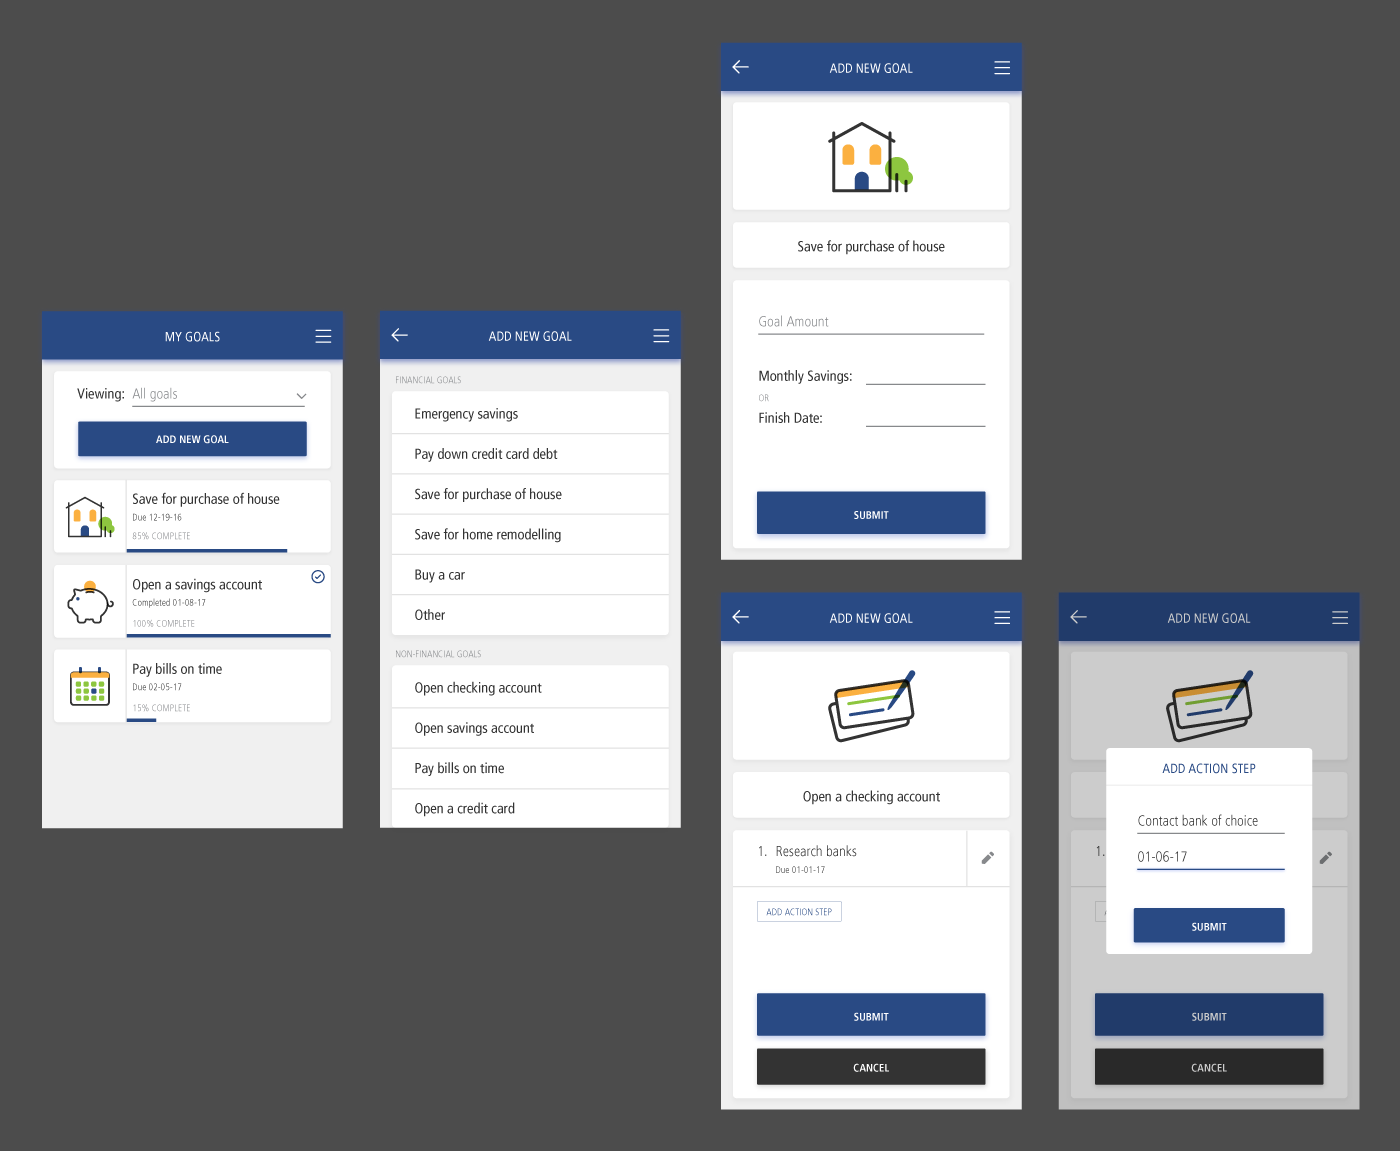
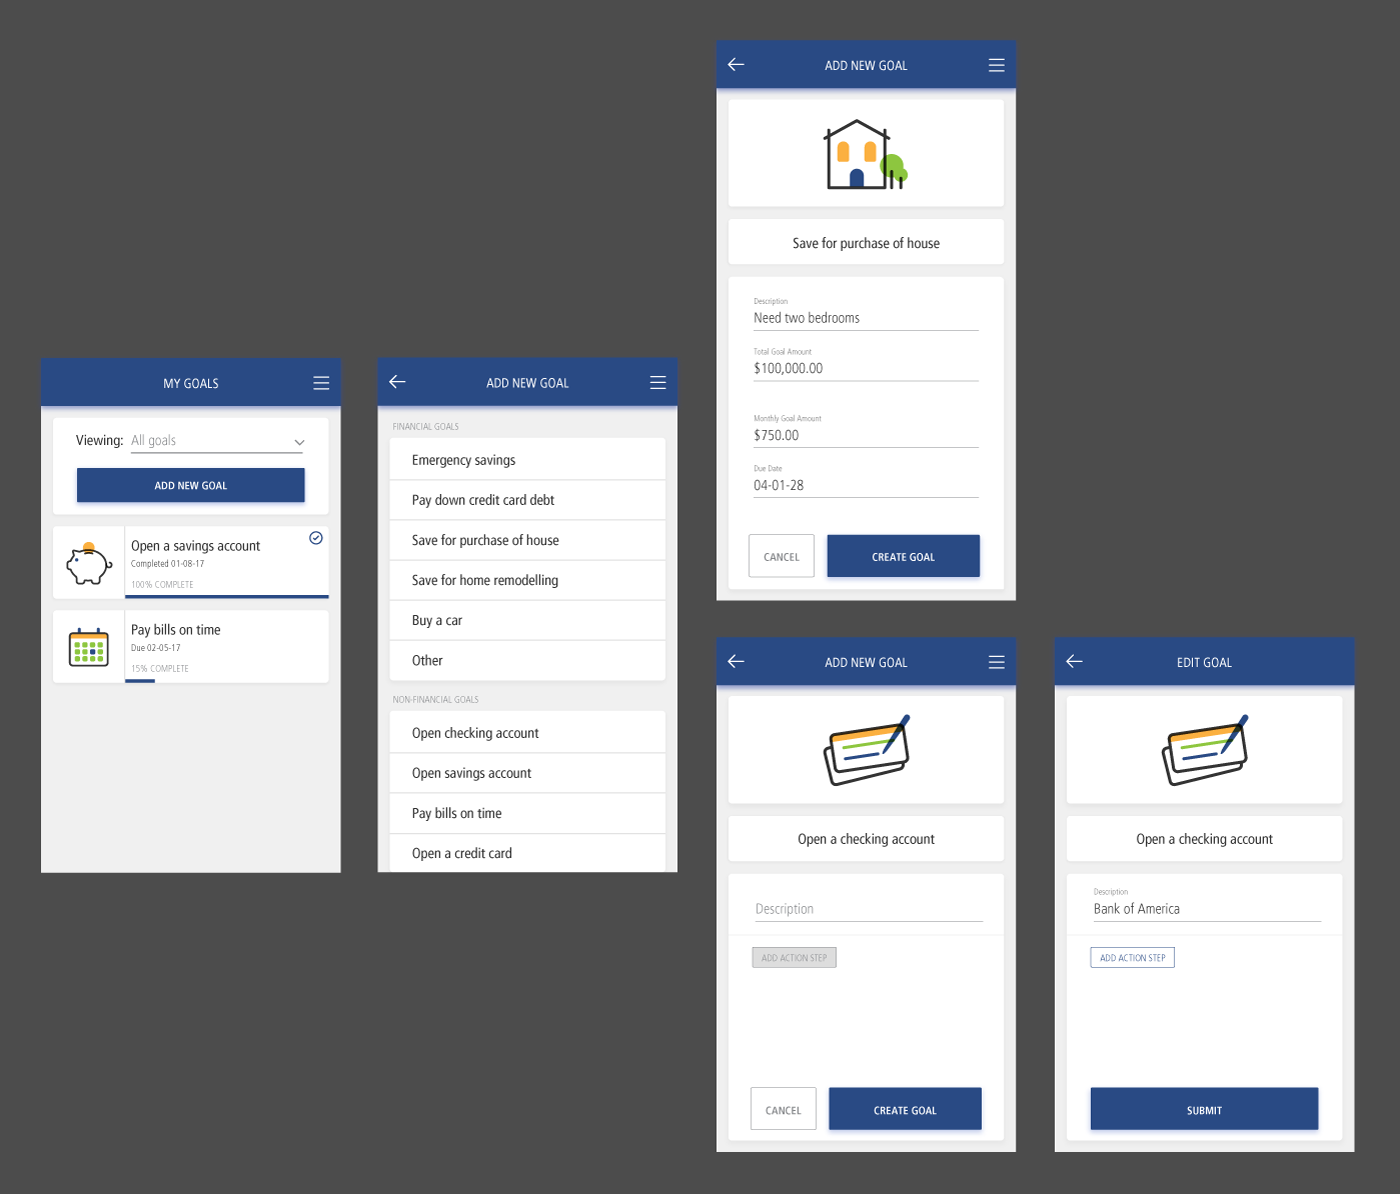
mybc

Changed region(s): [[0.0307, 0.0304, 0.9829, 0.9731]]

diff --git a/mybc.html b/mybc.html
@@ -42,10 +42,12 @@
             <p>We imagined scenarios that clients might find themselves in where they'd want to input their income and expenses without logging into a desktop computer. Perhaps after a grocery trip, a client could enter their total into MyExpenses while on a bus. Maybe a client could open a paycheck and input their income amount quickly before rushing off to pick up their kids from school. We needed to make this easier for them.</p>
         </div>
         <img src="images/work/mybc/expensefull.png" alt="" class="soloImage">
-        <p class="imgDesc">A simple possible user flow</p>
+        <p class="imgDesc">Adding and editing expenses</p>
         <div class="textWidth">
             <p>MyExpenses had the most simple of the three tool concepts, so we began here, where users meet Cal, MyBC's new mascot. I created him so that he could appear in a few places in the new tools, but he made his debut right here in the MyExpenses tool. </p>
-            <p>Cal greets users on the first screen of MyExpenses, where they can see the last entry they added (and edit it by tapping on it), view a history of their entries (and edit those by tapping on them), or enter new ones. These entries are fed into the MyBudget and MyGoals tools.</p>
+            <p>Cal greets users on the home screen of MyExpenses, where they can see the last entry they added (and edit it by tapping on it), view a history of their entries (and edit those by tapping on them), or enter new ones. These entries are fed into the MyBudget and MyGoals tools.</p>
+            <p>To enter an entry the user chooses whether it's an income or expense entry, and then completes the form before submitting. When they submit an entry, they're taken back to the MyExpenses home screen where the "last entry" section serves as a confirmation that their entry was recorded.</p>
+            <p>When viewing the entry history, users can sort their entries by a few parameters. If they want to edit an entry, they select it from the list and can change the date or amount.</p>
             <p><strong>Want a closer look at MyExpenses? Click below to see the completed mockups.</strong></p>
             <a href="" class="button">View Mockups</a>
 
@@ -56,16 +58,29 @@
             <p class="imgDesc">MyGoals icons: Before</p>
             <img src="images/work/mybc/goalicons.png" alt="" class="underText noShadow">
             <p class="imgDesc">MyGoals icons: After</p>
-            <p>In total, there were 25 possible goals to chose from, including an "other" option for both financial and non-financial goals. Part of my goal for MyGoals (ha) was to make a brand-new icon set. They were now simpler, and better reflect the MyBC brand.</p>
+            <p>In total, there were 25 possible goals to chose from, including an "other" option for both financial and non-financial goals. Part of my goal for MyGoals (ha) was to make a brand-new icon set. They now better reflect the MyBC brand.</p>
         </div>
         <img src="images/work/mybc/goalsnew.png" alt="" class="soloImage">
         <p class="imgDesc">Adding a new goal- financial vs. non-financial</p>
         <div class="textWidth">
-            <p>MyExpenses had the most simple of the three tool concepts, so we began here. Meet Cal, MyBC's new mascot. I created him so that he could appear in a few places in the new tools, but he made his debut right here in the MyExpenses tool. </p>
-            <p>Cal greets users on the first screen of MyExpenses, where they can see the last entry they added (and edit it by tapping on it), view a history of their entries (and edit those by tapping on them), or enter new ones. These entries are fed into the MyBudget and MyGoals tools.</p>
-            <p><strong>Want a closer look at MyExpenses? Click below to see the completed mockups.</strong></p>
-            <a href="" class="button">View Mockups</a>
+            <p>On the MyGoals homescreen, users see an overview of their goal progress, as well as add new goals.</p>
+            <p>In order to create a new goal, the user selects the goal they want to pursue. If it's a financial goal, they input the goal description and amount. The description is crucial for "other" goals, which a user could have multiples of, so that they can differenciate between them. They then either input how much they can save each month, or chose a date they want to see the goal completed by. When they input one of those two values, the other will autofill. If they select a non-financial goal, they add a description, and tap "create goal" to activate the action step input option.</p>
         </div>
+        <img src="images/work/mybc/editfin.png" alt="" class="soloImage">
+        <p class="imgDesc">Editing a financial goal</p>
+        <div class="textWidth">
+            <p>To edit or view any goal, the user taps it on the MyGoals home screen.</p>
+            <p>For financial goals, users can edit the goal amount or due date. They can also add funds to the goal or view the entry history for the goal, both of which feed directly into the MyExpenses tool. The MyGoals "view history" page is essentially just a blue-skinned version of the MyExpenses entry history page. The category and sub-category prefill in the filter to represent the current goal selected.</p>
+
+        </div>
+        <img src="images/work/mybc/editnonfin.png" alt="" class="soloImage">
+        <p class="imgDesc">Editing a non-financial goal</p>
+        <div class="textWidth">
+            <p>For financial goals, users can edit the goal amount or due date. They can also add funds to the goal or view the entry history for the goal, both of which feed directly into the MyExpenses tool. The MyGoals "view history" page is essentially just a blue-skinned version of the MyExpenses entry history page. The category and sub-category prefill in the filter to represent the current goal selected.</p>
+
+        </div>
+
+
 
 
 
